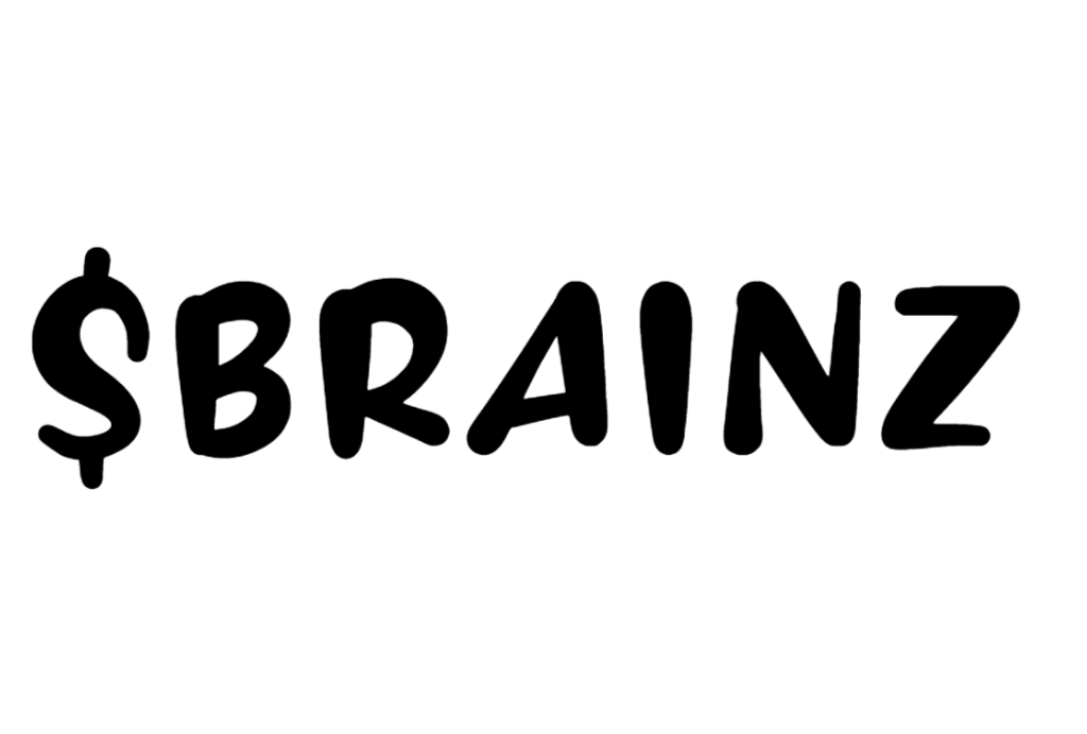
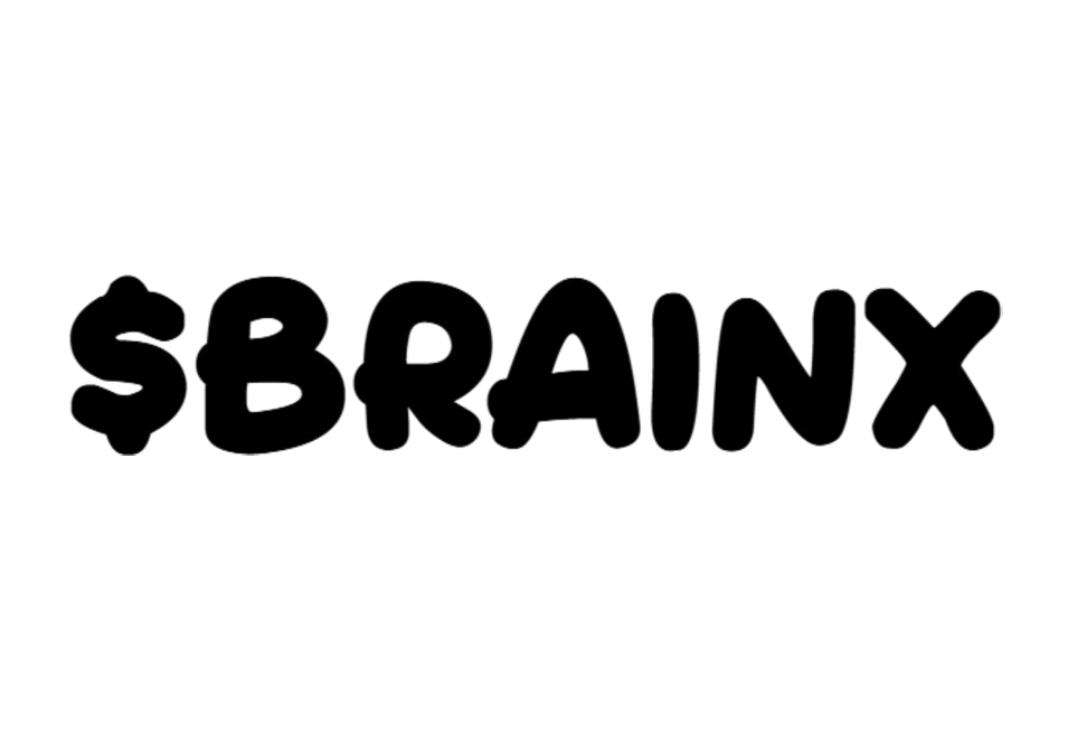
1

Changed region(s): [[0.0304, 0.3297, 0.9411, 0.6894], [0.5161, 0.3597, 0.5465, 0.3896]]

diff --git a/index.html b/index.html
@@ -9,8 +9,8 @@
 <meta http-equiv="Expires" content="0" />
     <link rel="icon" href="./assets/logo1.png" type="image/png">
     <link rel="apple-touch-icon" href="./assets/logo1.png">
-    <title>BRAINZ</title>
-    <meta name="description" content="BRAINZ is a cheeky, sarcastic genius representing your inner thoughts on the Solana network." />
+    <title>BRAINX</title>
+    <meta name="description" content="BRAINX is a cheeky, sarcastic genius representing your inner thoughts on the Solana network." />
   
     <link rel="preconnect" href="https://fonts.googleapis.com">
     <link rel="preconnect" href="https://fonts.gstatic.com" crossorigin>
@@ -25,48 +25,48 @@
       <div class="ticker-wrapper">
         <div class="ticker">
             <div class="ticker-move">
-                <span class="text">sGjV...<span style="color:#ff7bd3; font-weight: bold; text-transform: uppercase;">pump</span></span>
-                <span class="text">sGjV...<span style="color:#ff7bd3; font-weight: bold; text-transform: uppercase;">pump</span></span>
-                <span class="text">sGjV...<span style="color:#ff7bd3; font-weight: bold; text-transform: uppercase;">pump</span></span>
-                <span class="text">sGjV...<span style="color:#ff7bd3; font-weight: bold; text-transform: uppercase;">pump</span></span>
-                <span class="text">sGjV...<span style="color:#ff7bd3; font-weight: bold; text-transform: uppercase;">pump</span></span>
-                <span class="text">sGjV...<span style="color:#ff7bd3; font-weight: bold; text-transform: uppercase;">pump</span></span>
-                <span class="text">sGjV...<span style="color:#ff7bd3; font-weight: bold; text-transform: uppercase;">pump</span></span>
-                <span class="text">sGjV...<span style="color:#ff7bd3; font-weight: bold; text-transform: uppercase;">pump</span></span>
-                <span class="text">sGjV...<span style="color:#ff7bd3; font-weight: bold; text-transform: uppercase;">pump</span></span>
-                <span class="text">sGjV...<span style="color:#ff7bd3; font-weight: bold; text-transform: uppercase;">pump</span></span>
-                <span class="text">sGjV...<span style="color:#ff7bd3; font-weight: bold; text-transform: uppercase;">pump</span></span>
-                <span class="text">sGjV...<span style="color:#ff7bd3; font-weight: bold; text-transform: uppercase;">pump</span></span>
-                <span class="text">sGjV...<span style="color:#ff7bd3; font-weight: bold; text-transform: uppercase;">pump</span></span>
-                <span class="text">sGjV...<span style="color:#ff7bd3; font-weight: bold; text-transform: uppercase;">pump</span></span>
-                <span class="text">sGjV...<span style="color:#ff7bd3; font-weight: bold; text-transform: uppercase;">pump</span></span>
-                <span class="text">sGjV...<span style="color:#ff7bd3; font-weight: bold; text-transform: uppercase;">pump</span></span>
-                <span class="text">sGjV...<span style="color:#ff7bd3; font-weight: bold; text-transform: uppercase;">pump</span></span>
-                <span class="text">sGjV...<span style="color:#ff7bd3; font-weight: bold; text-transform: uppercase;">pump</span></span>
-                <span class="text">sGjV...<span style="color:#ff7bd3; font-weight: bold; text-transform: uppercase;">pump</span></span>
-                <span class="text">sGjV...<span style="color:#ff7bd3; font-weight: bold; text-transform: uppercase;">pump</span></span>
+                <span class="text">82m4...<span style="color:#ff7bd3; font-weight: bold; text-transform: uppercase;">pump</span></span>
+                <span class="text">82m4...<span style="color:#ff7bd3; font-weight: bold; text-transform: uppercase;">pump</span></span>
+                <span class="text">82m4...<span style="color:#ff7bd3; font-weight: bold; text-transform: uppercase;">pump</span></span>
+                <span class="text">82m4...<span style="color:#ff7bd3; font-weight: bold; text-transform: uppercase;">pump</span></span>
+                <span class="text">82m4...<span style="color:#ff7bd3; font-weight: bold; text-transform: uppercase;">pump</span></span>
+                <span class="text">82m4...<span style="color:#ff7bd3; font-weight: bold; text-transform: uppercase;">pump</span></span>
+                <span class="text">82m4...<span style="color:#ff7bd3; font-weight: bold; text-transform: uppercase;">pump</span></span>
+                <span class="text">82m4...<span style="color:#ff7bd3; font-weight: bold; text-transform: uppercase;">pump</span></span>
+                <span class="text">82m4...<span style="color:#ff7bd3; font-weight: bold; text-transform: uppercase;">pump</span></span>
+                <span class="text">82m4...<span style="color:#ff7bd3; font-weight: bold; text-transform: uppercase;">pump</span></span>
+                <span class="text">82m4...<span style="color:#ff7bd3; font-weight: bold; text-transform: uppercase;">pump</span></span>
+                <span class="text">82m4...<span style="color:#ff7bd3; font-weight: bold; text-transform: uppercase;">pump</span></span>
+                <span class="text">82m4...<span style="color:#ff7bd3; font-weight: bold; text-transform: uppercase;">pump</span></span>
+                <span class="text">82m4...<span style="color:#ff7bd3; font-weight: bold; text-transform: uppercase;">pump</span></span>
+                <span class="text">82m4...<span style="color:#ff7bd3; font-weight: bold; text-transform: uppercase;">pump</span></span>
+                <span class="text">82m4...<span style="color:#ff7bd3; font-weight: bold; text-transform: uppercase;">pump</span></span>
+                <span class="text">82m4...<span style="color:#ff7bd3; font-weight: bold; text-transform: uppercase;">pump</span></span>
+                <span class="text">82m4...<span style="color:#ff7bd3; font-weight: bold; text-transform: uppercase;">pump</span></span>
+                <span class="text">82m4...<span style="color:#ff7bd3; font-weight: bold; text-transform: uppercase;">pump</span></span>
+                <span class="text">82m4...<span style="color:#ff7bd3; font-weight: bold; text-transform: uppercase;">pump</span></span>
             </div>
             <DIV class="ticker-move">
-                <span class="text">sGjV...<span style="color:#ff7bd3; font-weight: bold; text-transform: uppercase;">pump</span></span>
-                <span class="text">sGjV...<span style="color:#ff7bd3; font-weight: bold; text-transform: uppercase;">pump</span></span>
-                <span class="text">sGjV...<span style="color:#ff7bd3; font-weight: bold; text-transform: uppercase;">pump</span></span>
-                <span class="text">sGjV...<span style="color:#ff7bd3; font-weight: bold; text-transform: uppercase;">pump</span></span>
-                <span class="text">sGjV...<span style="color:#ff7bd3; font-weight: bold; text-transform: uppercase;">pump</span></span>
-                <span class="text">sGjV...<span style="color:#ff7bd3; font-weight: bold; text-transform: uppercase;">pump</span></span>
-                <span class="text">sGjV...<span style="color:#ff7bd3; font-weight: bold; text-transform: uppercase;">pump</span></span>
-                <span class="text">sGjV...<span style="color:#ff7bd3; font-weight: bold; text-transform: uppercase;">pump</span></span>
-                <span class="text">sGjV...<span style="color:#ff7bd3; font-weight: bold; text-transform: uppercase;">pump</span></span>
-                <span class="text">sGjV...<span style="color:#ff7bd3; font-weight: bold; text-transform: uppercase;">pump</span></span>
-                <span class="text">sGjV...<span style="color:#ff7bd3; font-weight: bold; text-transform: uppercase;">pump</span></span>
-                <span class="text">sGjV...<span style="color:#ff7bd3; font-weight: bold; text-transform: uppercase;">pump</span></span>
-                <span class="text">sGjV...<span style="color:#ff7bd3; font-weight: bold; text-transform: uppercase;">pump</span></span>
-                <span class="text">sGjV...<span style="color:#ff7bd3; font-weight: bold; text-transform: uppercase;">pump</span></span>
-                <span class="text">sGjV...<span style="color:#ff7bd3; font-weight: bold; text-transform: uppercase;">pump</span></span>
-                <span class="text">sGjV...<span style="color:#ff7bd3; font-weight: bold; text-transform: uppercase;">pump</span></span>
-                <span class="text">sGjV...<span style="color:#ff7bd3; font-weight: bold; text-transform: uppercase;">pump</span></span>
-                <span class="text">sGjV...<span style="color:#ff7bd3; font-weight: bold; text-transform: uppercase;">pump</span></span>
-                <span class="text">sGjV...<span style="color:#ff7bd3; font-weight: bold; text-transform: uppercase;">pump</span></span>
-                <span class="text">sGjV...<span style="color:#ff7bd3; font-weight: bold; text-transform: uppercase;">pump</span></span>
+                <span class="text">82m4...<span style="color:#ff7bd3; font-weight: bold; text-transform: uppercase;">pump</span></span>
+                <span class="text">82m4...<span style="color:#ff7bd3; font-weight: bold; text-transform: uppercase;">pump</span></span>
+                <span class="text">82m4...<span style="color:#ff7bd3; font-weight: bold; text-transform: uppercase;">pump</span></span>
+                <span class="text">82m4...<span style="color:#ff7bd3; font-weight: bold; text-transform: uppercase;">pump</span></span>
+                <span class="text">82m4...<span style="color:#ff7bd3; font-weight: bold; text-transform: uppercase;">pump</span></span>
+                <span class="text">82m4...<span style="color:#ff7bd3; font-weight: bold; text-transform: uppercase;">pump</span></span>
+                <span class="text">82m4...<span style="color:#ff7bd3; font-weight: bold; text-transform: uppercase;">pump</span></span>
+                <span class="text">82m4...<span style="color:#ff7bd3; font-weight: bold; text-transform: uppercase;">pump</span></span>
+                <span class="text">82m4...<span style="color:#ff7bd3; font-weight: bold; text-transform: uppercase;">pump</span></span>
+                <span class="text">82m4...<span style="color:#ff7bd3; font-weight: bold; text-transform: uppercase;">pump</span></span>
+                <span class="text">82m4...<span style="color:#ff7bd3; font-weight: bold; text-transform: uppercase;">pump</span></span>
+                <span class="text">82m4...<span style="color:#ff7bd3; font-weight: bold; text-transform: uppercase;">pump</span></span>
+                <span class="text">82m4...<span style="color:#ff7bd3; font-weight: bold; text-transform: uppercase;">pump</span></span>
+                <span class="text">82m4...<span style="color:#ff7bd3; font-weight: bold; text-transform: uppercase;">pump</span></span>
+                <span class="text">82m4...<span style="color:#ff7bd3; font-weight: bold; text-transform: uppercase;">pump</span></span>
+                <span class="text">82m4...<span style="color:#ff7bd3; font-weight: bold; text-transform: uppercase;">pump</span></span>
+                <span class="text">82m4...<span style="color:#ff7bd3; font-weight: bold; text-transform: uppercase;">pump</span></span>
+                <span class="text">82m4...<span style="color:#ff7bd3; font-weight: bold; text-transform: uppercase;">pump</span></span>
+                <span class="text">82m4...<span style="color:#ff7bd3; font-weight: bold; text-transform: uppercase;">pump</span></span>
+                <span class="text">82m4...<span style="color:#ff7bd3; font-weight: bold; text-transform: uppercase;">pump</span></span>
             </div>
         </div>
       </div>
@@ -91,22 +91,22 @@
       <div class="social-links-and-ca-wrapper">
         <div class="social-links-wrapper">
 
-          <a class="social-link"  href="https://x.com/brayanthebrain" target="_blank">
+          <a class="social-link"  href="https://x.com/brainxsol" target="_blank">
             <img class="social-img" src="./assets/social/x.svg"/>
           </a>
 
-          <a class="social-link"  href="https://t.me/brayanthebrain" target="_blank">
+          <a class="social-link"  href="https://t.me/brainxsol" target="_blank">
             <img class="social-img" src="./assets/social/telegram.svg"/>
           </a>
           <a class="social-link"  href="#" target="_blank">
             <img class="social-img" src="./assets/DEXTools Isotype_black (alternative color).png"/>
           </a>
-            <a class="social-link"  href="https://pump.fun/sGjVhFgrN64cBD4jF9t7bhmMGobfZNLssN1eSrrpump" target="_blank">
+            <a class="social-link"  href="https://pump.fun/82m4KxCHPGb88K6MeuQFLDoLEkHvJdoM422SgMrpump" target="_blank">
             <img style="filter: brightness(0%);" class="social-img" src="./assets/pump.png"/>
           </a>
         </div>
         <div class="ca">
-          sGjVhFgrN64cBD4jF9t7bhmMGobfZNLssN1eSrr<span style="color:#ff7bd3; font-weight: bold; text-transform: uppercase;">pump</span>
+          82m4KxCHPGb88K6MeuQFLDoLEkHvJdoM422SgMr<span style="color:#ff7bd3; font-weight: bold; text-transform: uppercase;">pump</span>
         </div>
       </div>
 
@@ -117,8 +117,8 @@
           <img class="brain-text-logo shaker" alt="brain-text-logo" src="./assets/brain_header.png" />
         </div>
 
-        <span class="brain-text fade-in-element">BRAINZ is a cheeky, sarcastic genius representing your inner thoughts on the Solana network.</span>
-        <a href="https://pump.fun/sGjVhFgrN64cBD4jF9t7bhmMGobfZNLssN1eSrrpump" target="_blank" class="buy-brain-button"><img src="./assets/buy_brain_button.png" /></a>
+        <span class="brain-text fade-in-element">BRAINX is a cheeky, sarcastic genius representing your inner thoughts on the Solana network.</span>
+        <a href="https://pump.fun/82m4KxCHPGb88K6MeuQFLDoLEkHvJdoM422SgMrpump" target="_blank" class="buy-brain-button"><img src="./assets/buy_brain_button.png" /></a>
       </div>
     </section>
     <section class="why-brain-wrapper">
@@ -126,10 +126,10 @@
         <div class="text-warpper">
           <img class="section-title why-brain-title fade-in-element" src="./assets/why_brain.png" />
           <br>
-            Dis smol BRAINZ sez: "BUY NOW!"</br>
-            Dis big BRAINZ sez: "MOON SOON!</br>
+            Dis smol BRAINX sez: "BUY NOW!"</br>
+            Dis big BRAINX sez: "MOON SOON!</br>
           </br>
-            Why $BRAINZ Coin?</br>
+            Why $BRAINX Coin?</br>
           </br>
             MOON! We go zoom zoom 🚀</br>
             DIAMOND HANDS! No paper hands, no weak sauce 💎✋</br>
@@ -150,48 +150,48 @@
       <div class="ticker-wrapper dark">
         <div class="ticker">
             <div class="ticker-move">
-                <span class="text">$BRAINZ</span>
-                <span class="text">$BRAINZ</span>
-                <span class="text">$BRAINZ</span>
-                <span class="text">$BRAINZ</span>
-                <span class="text">$BRAINZ</span>
-                <span class="text">$BRAINZ</span>
-                <span class="text">$BRAINZ</span>
-                <span class="text">$BRAINZ</span>
-                <span class="text">$BRAINZ</span>
-                <span class="text">$BRAINZ</span>
-                <span class="text">$BRAINZ</span>
-                <span class="text">$BRAINZ</span>
-                <span class="text">$BRAINZ</span>
-                <span class="text">$BRAINZ</span>
-                <span class="text">$BRAINZ</span>
-                <span class="text">$BRAINZ</span>
-                <span class="text">$BRAINZ</span>
-                <span class="text">$BRAINZ</span>
-                <span class="text">$BRAINZ</span>
-                <span class="text">$BRAINZ</span>
+                <span class="text">$BRAINX</span>
+                <span class="text">$BRAINX</span>
+                <span class="text">$BRAINX</span>
+                <span class="text">$BRAINX</span>
+                <span class="text">$BRAINX</span>
+                <span class="text">$BRAINX</span>
+                <span class="text">$BRAINX</span>
+                <span class="text">$BRAINX</span>
+                <span class="text">$BRAINX</span>
+                <span class="text">$BRAINX</span>
+                <span class="text">$BRAINX</span>
+                <span class="text">$BRAINX</span>
+                <span class="text">$BRAINX</span>
+                <span class="text">$BRAINX</span>
+                <span class="text">$BRAINX</span>
+                <span class="text">$BRAINX</span>
+                <span class="text">$BRAINX</span>
+                <span class="text">$BRAINX</span>
+                <span class="text">$BRAINX</span>
+                <span class="text">$BRAINX</span>
             </div>
             <div class="ticker-move">
-                <span class="text">$BRAINZ</span>
-                <span class="text">$BRAINZ</span>
-                <span class="text">$BRAINZ</span>
-                <span class="text">$BRAINZ</span>
-                <span class="text">$BRAINZ</span>
-                <span class="text">$BRAINZ</span>
-                <span class="text">$BRAINZ</span>
-                <span class="text">$BRAINZ</span>
-                <span class="text">$BRAINZ</span>
-                <span class="text">$BRAINZ</span>
-                <span class="text">$BRAINZ</span>
-                <span class="text">$BRAINZ</span>
-                <span class="text">$BRAINZ</span>
-                <span class="text">$BRAINZ</span>
-                <span class="text">$BRAINZ</span>
-                <span class="text">$BRAINZ</span>
-                <span class="text">$BRAINZ</span>
-                <span class="text">$BRAINZ</span>
-                <span class="text">$BRAINZ</span>
-                <span class="text">$BRAINZ</span>
+                <span class="text">$BRAINX</span>
+                <span class="text">$BRAINX</span>
+                <span class="text">$BRAINX</span>
+                <span class="text">$BRAINX</span>
+                <span class="text">$BRAINX</span>
+                <span class="text">$BRAINX</span>
+                <span class="text">$BRAINX</span>
+                <span class="text">$BRAINX</span>
+                <span class="text">$BRAINX</span>
+                <span class="text">$BRAINX</span>
+                <span class="text">$BRAINX</span>
+                <span class="text">$BRAINX</span>
+                <span class="text">$BRAINX</span>
+                <span class="text">$BRAINX</span>
+                <span class="text">$BRAINX</span>
+                <span class="text">$BRAINX</span>
+                <span class="text">$BRAINX</span>
+                <span class="text">$BRAINX</span>
+                <span class="text">$BRAINX</span>
+                <span class="text">$BRAINX</span>
             </div>
         </div>
       </div>
@@ -232,13 +232,13 @@
 
         <div class="step">
           <div class="step-title-and-text">
-            <h3>3. SWAP $SOL FOR $BRAINZ</h3>
-            <p>Click on the button below, connect your wallet, and press SWAP! BOOM! <strong>You are a $BRAINZ holder!</strong></p>
+            <h3>3. SWAP $SOL FOR $BRAINX</h3>
+            <p>Click on the button below, connect your wallet, and press SWAP! BOOM! <strong>You are a $BRAINX holder!</strong></p>
             <p></p>
-              <a href="https://pump.fun/sGjVhFgrN64cBD4jF9t7bhmMGobfZNLssN1eSrrpump" target="_blank" class="buy-brain-instep">Buy $BRAINZ</a>
+              <a href="https://pump.fun/82m4KxCHPGb88K6MeuQFLDoLEkHvJdoM422SgMrpump" target="_blank" class="buy-brain-instep">Buy $BRAINX</a>
           </div>
 
-          <img src="./assets/c.png" alt="Swap $SOL for $BRAINZ">
+          <img src="./assets/c.png" alt="Swap $SOL for $BRAINX">
         </div>
     </div>
     </section>
@@ -248,11 +248,11 @@
 
       <div class="social-links-wrapper-bottom">
 
-        <a class="social-link" href="https://x.com/brayanthebrain" target="_blank">
+        <a class="social-link" href="https://x.com/brainxsol" target="_blank">
           <img class="social-img" src="./assets/social/x-w.svg"/>
         </a>
 
-        <a class="social-link" href="https://t.me/brayanthebrain" target="_blank">
+        <a class="social-link" href="https://t.me/brainxsol" target="_blank">
           <img class="social-img" src="./assets/social/telegram-w.svg"/>
         </a>
       </div>
@@ -268,7 +268,7 @@
     </section>
     <div class="footer">
       <span class="disclaimer">
-        Legal Disclaimer: $BRAINZ is a meme coin with no value or financial return. $BRAINZ is purely for entertainment. By purchasing $BRAINZ, you acknowledge this disclaimer.
+        Legal Disclaimer: $BRAINX is a meme coin with no value or financial return. $BRAINX is purely for entertainment. By purchasing $BRAINX, you acknowledge this disclaimer.
       </span>
     </div>
     <script type="text/javascript" src="./script.js?v=1.0.1"></script>
